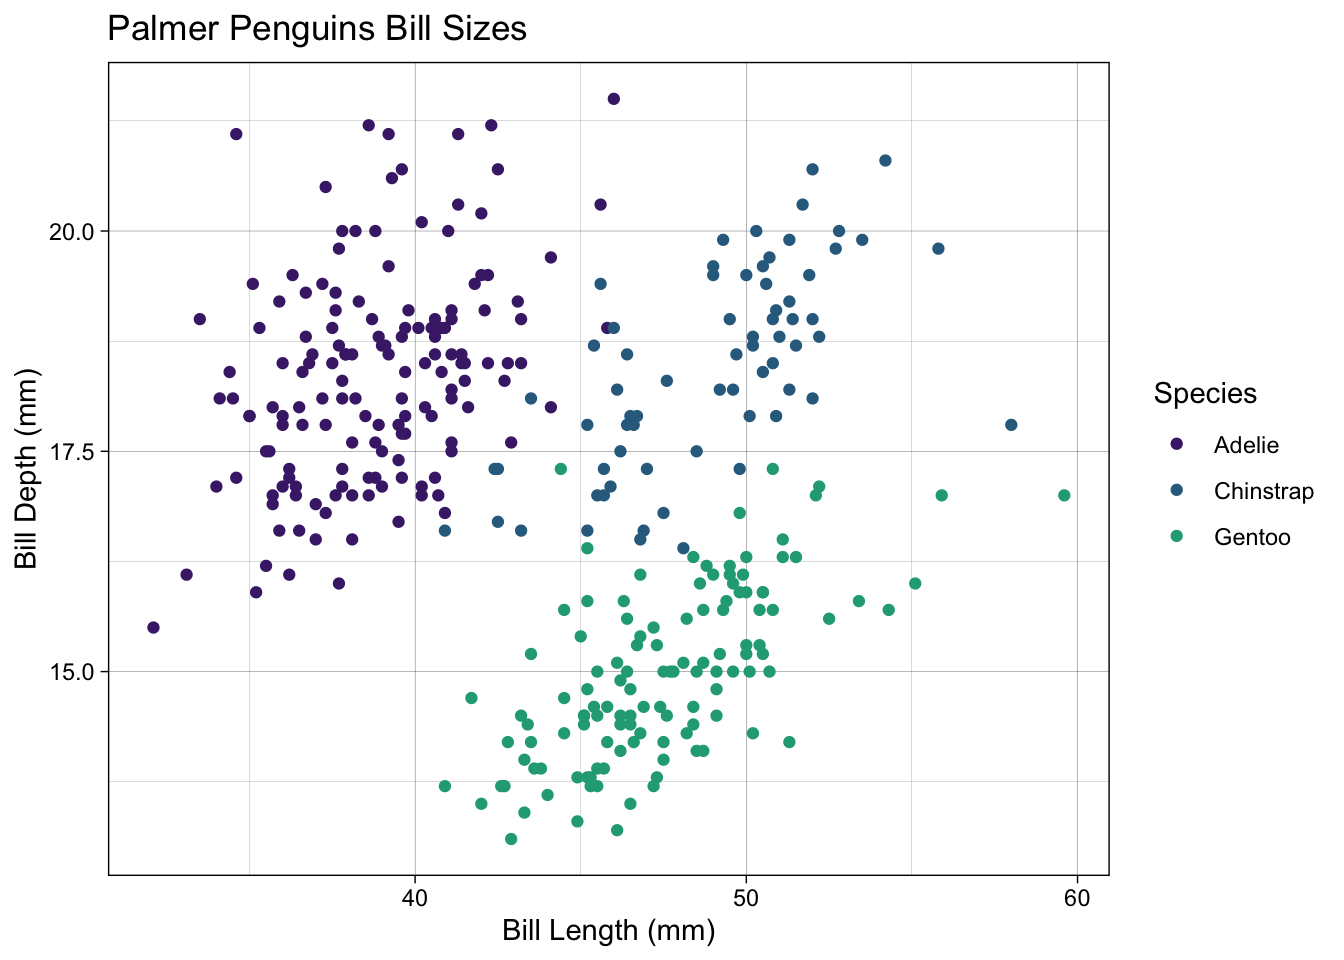
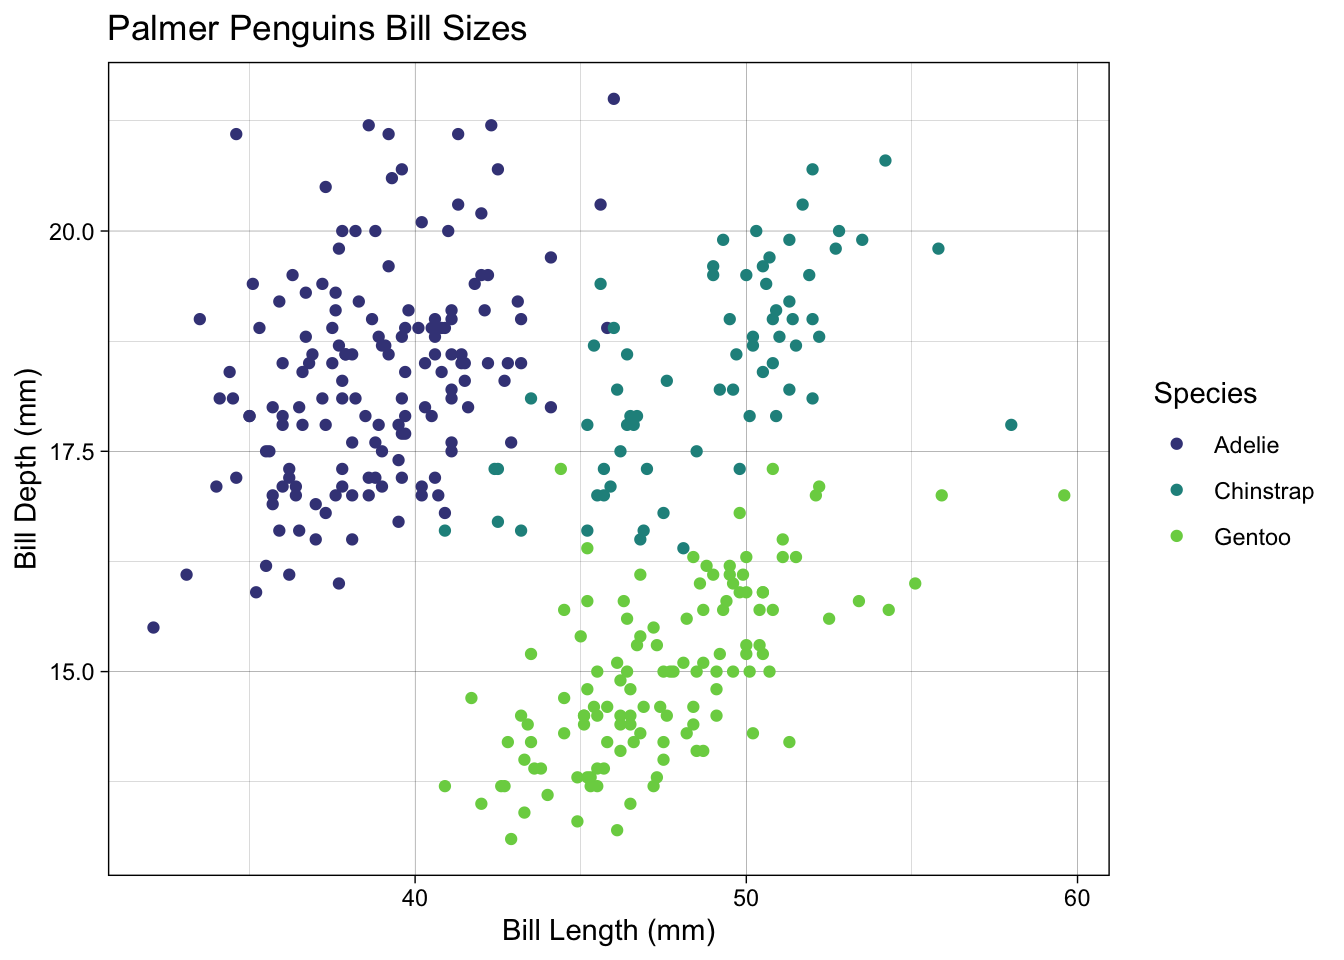
update colors

diff --git a/eds212_day2_groupwork.html b/eds212_day2_groupwork.html
@@ -150,7 +150,7 @@ pre > code.sourceCode > span > a:first-child::before { text-decoration: underlin
 <span id="cb9-5"><a href="#cb9-5" aria-hidden="true" tabindex="-1"></a>       <span class="at">title =</span> <span class="st">"Palmer Penguins Bill Sizes"</span>,</span>
 <span id="cb9-6"><a href="#cb9-6" aria-hidden="true" tabindex="-1"></a>       <span class="at">color =</span> <span class="st">"Species"</span>) <span class="sc">+</span></span>
 <span id="cb9-7"><a href="#cb9-7" aria-hidden="true" tabindex="-1"></a>  <span class="fu">theme_linedraw</span>() <span class="sc">+</span></span>
-<span id="cb9-8"><a href="#cb9-8" aria-hidden="true" tabindex="-1"></a>  <span class="fu">scale_color_viridis_d</span>(<span class="at">begin =</span> <span class="fl">0.1</span>, <span class="at">end =</span> <span class="fl">0.6</span>)</span></code><button title="Copy to Clipboard" class="code-copy-button"><i class="bi"></i></button></pre></div>
+<span id="cb9-8"><a href="#cb9-8" aria-hidden="true" tabindex="-1"></a>  <span class="fu">scale_color_viridis_d</span>(<span class="at">begin =</span> <span class="fl">0.2</span>, <span class="at">end =</span> <span class="fl">0.8</span>)</span></code><button title="Copy to Clipboard" class="code-copy-button"><i class="bi"></i></button></pre></div>
 <div class="cell-output cell-output-stderr">
 <pre><code>Warning: Removed 2 rows containing missing values (`geom_point()`).</code></pre>
 </div>
